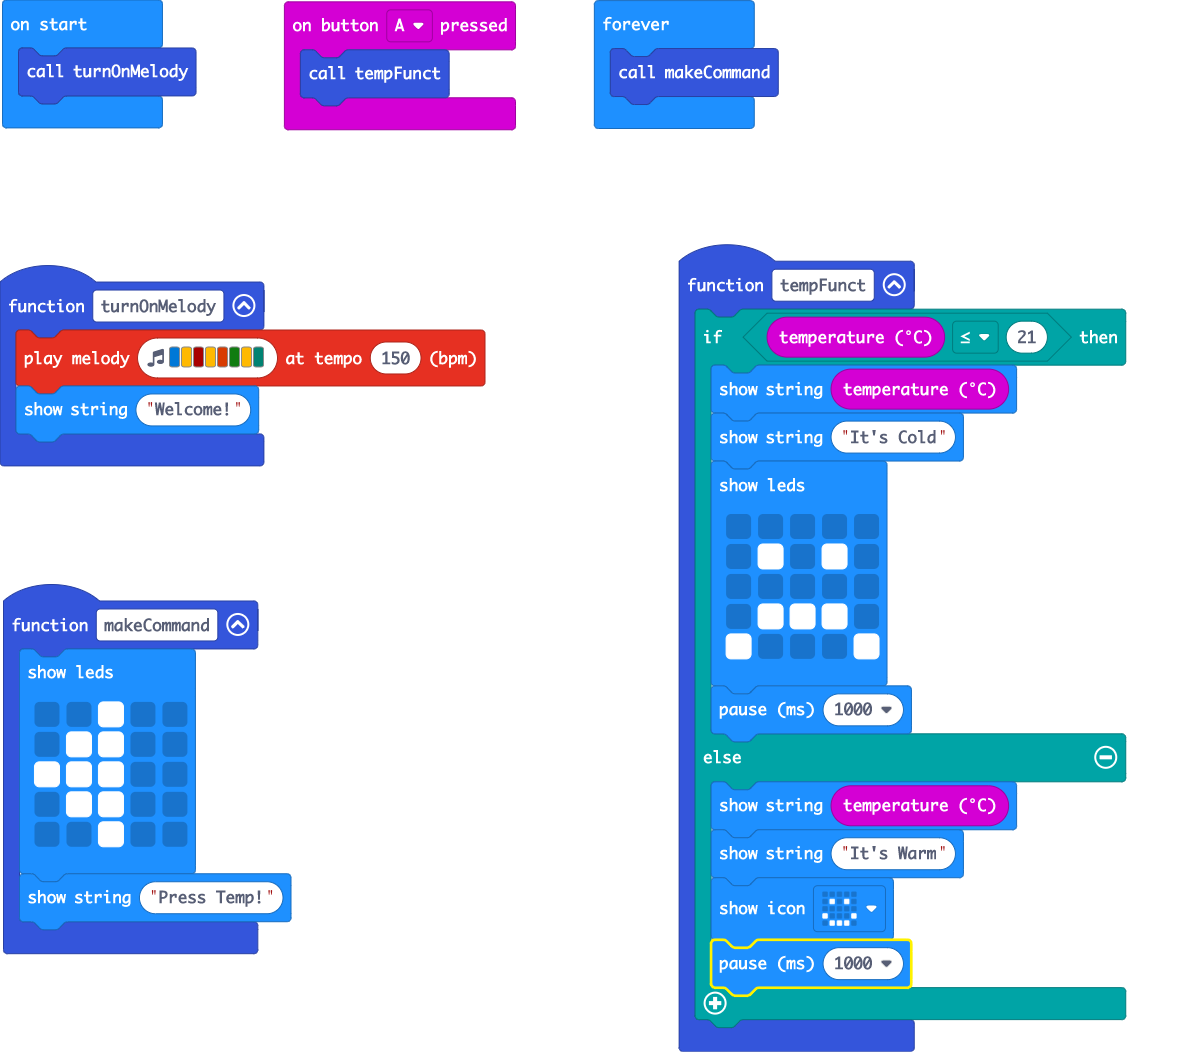
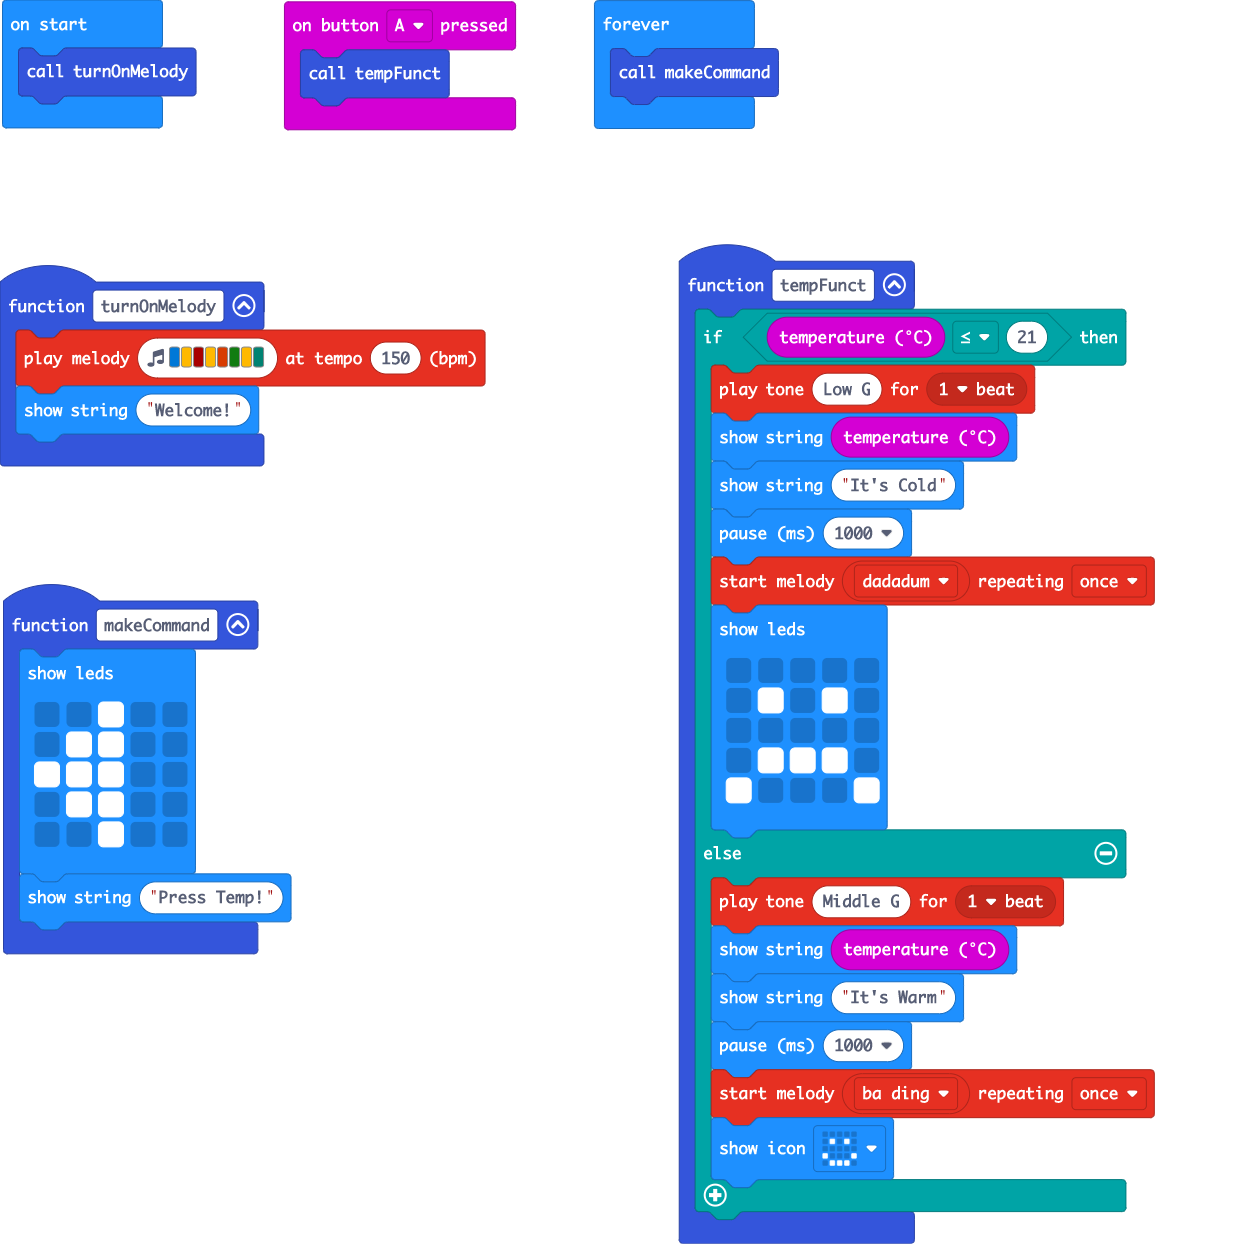
Update Again

diff --git a/main.ts b/main.ts
@@ -13,8 +13,11 @@ function makeCommand () {
 }
 function tempFunct () {
     if (input.temperature() <= 21) {
+        music.playTone(196, music.beat(BeatFraction.Whole))
         basic.showString("" + (input.temperature()))
         basic.showString("It's Cold")
+        basic.pause(1000)
+        music.startMelody(music.builtInMelody(Melodies.Dadadadum), MelodyOptions.Once)
         basic.showLeds(`
             . . . . .
             . # . # .
@@ -22,12 +25,13 @@ function tempFunct () {
             . # # # .
             # . . . #
             `)
-        basic.pause(1000)
     } else {
+        music.playTone(392, music.beat(BeatFraction.Whole))
         basic.showString("" + (input.temperature()))
         basic.showString("It's Warm")
-        basic.showIcon(IconNames.Happy)
         basic.pause(1000)
+        music.startMelody(music.builtInMelody(Melodies.BaDing), MelodyOptions.Once)
+        basic.showIcon(IconNames.Happy)
     }
 }
 function turnOnMelody () {
